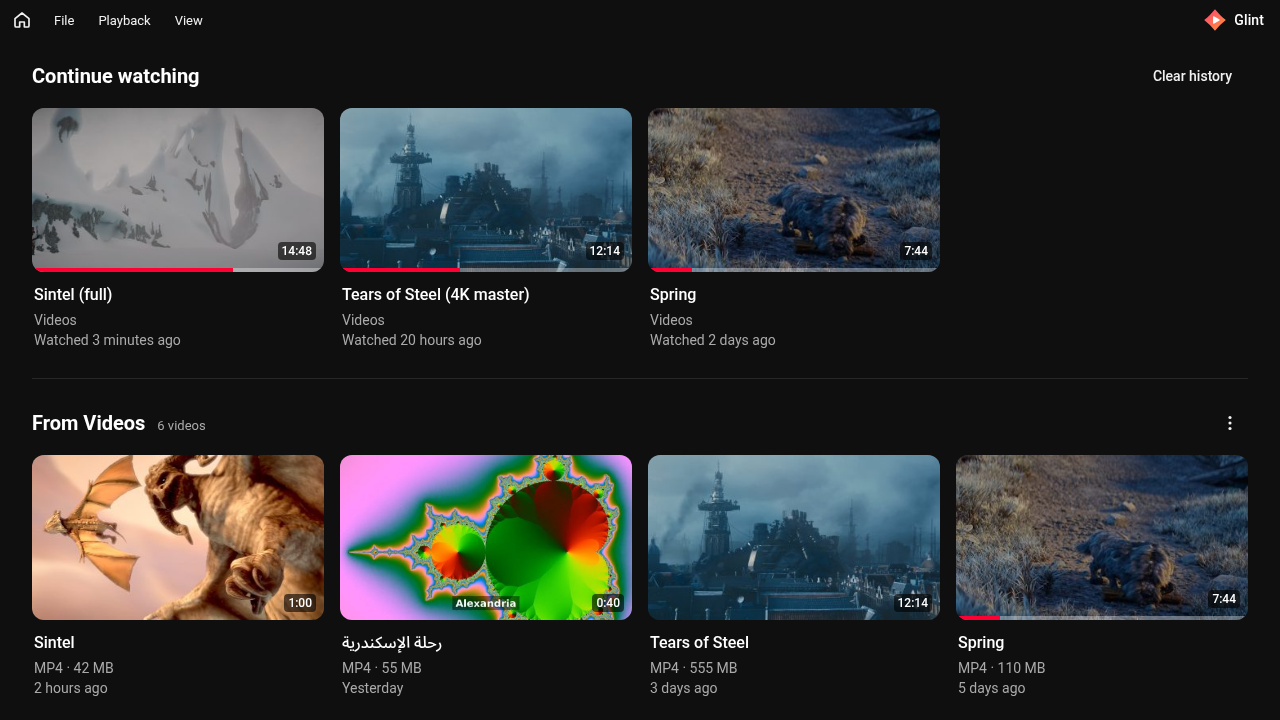
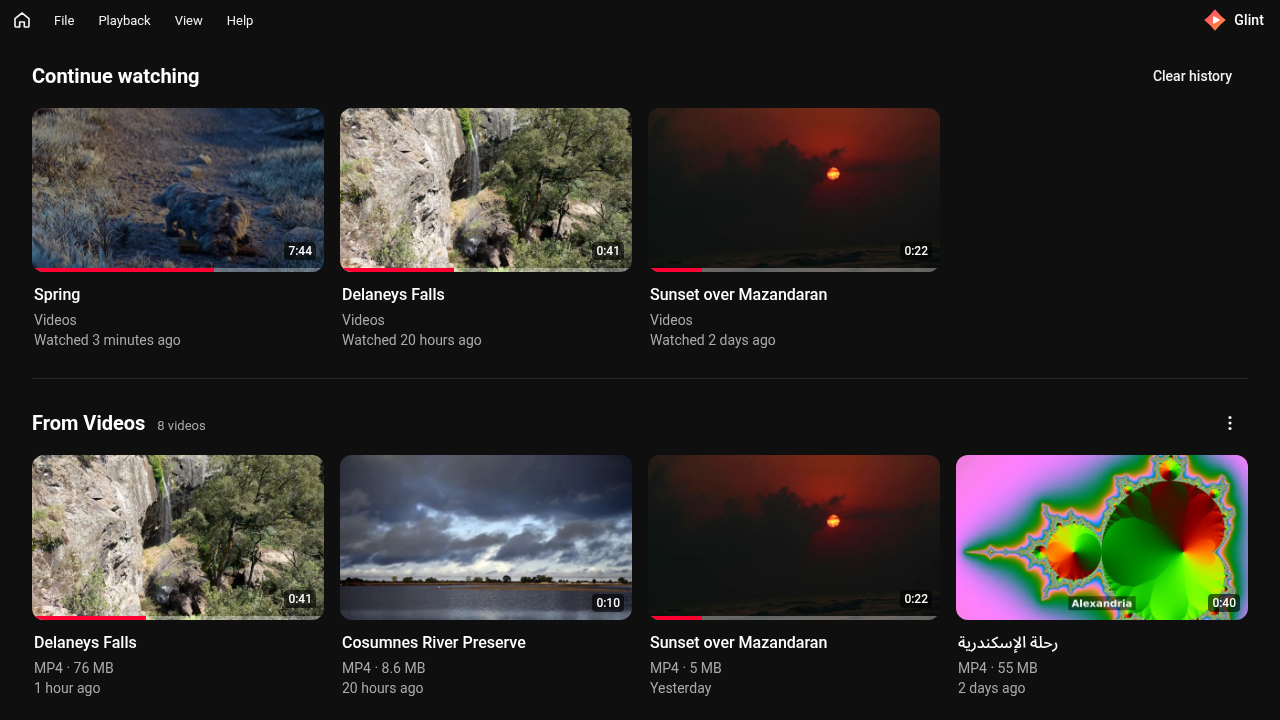
Replace movie footage in README media with public-domain and CC0 clips
New promo GIF, home screenshot and social preview use nature clips from
Wikimedia Commons (NPS, BLM, CC0) and the Blender Spring animation, with
credits updated in the README and THIRD_PARTY_NOTICES. Also correct the
installer size to about 5.6 MB.

diff --git a/README.md b/README.md
@@ -12,11 +12,11 @@
 [![License: MIT](https://img.shields.io/badge/license-MIT-blue)](LICENSE)
 ![Platform: Windows 10 | 11](https://img.shields.io/badge/platform-Windows%2010%20%7C%2011-0078d4)
 
-<img src="docs/glint-promo.gif" width="800" alt="Glint playing a video: play and pause with K, skip with J and L, jump with the number keys, and change the volume" />
+<img src="docs/glint-promo.gif" width="720" alt="Glint playing a waterfall clip with subtitles and chapters: play and pause with K, change the volume with the arrow keys, and hold Space for 2x" />
 
 [![Download for Windows](https://img.shields.io/badge/Download%20for%20Windows-ff4d6d?style=for-the-badge&logo=windows&logoColor=white)](https://github.com/Adham-ELtawil/glint/releases/latest)
 
-Free and open source · Windows 10 and 11 · about 2.5 MB
+Free and open source · Windows 10 and 11 · about 5.6 MB
 
 </div>
 
@@ -55,7 +55,7 @@ Open a video and the same control bar, shortcuts, and animations you already kno
 
 ## Download and install
 
-1. Go to the [latest release](https://github.com/Adham-ELtawil/glint/releases/latest) and download `Glint_<version>_x64-setup.exe` (about 3.3 MB). Glint runs on 64-bit Windows 10 and 11.
+1. Go to the [latest release](https://github.com/Adham-ELtawil/glint/releases/latest) and download `Glint_<version>_x64-setup.exe` (about 5.6 MB). Glint runs on 64-bit Windows 10 and 11.
 2. Run it. Glint installs for your user account only, so it doesn't ask for administrator rights.
 3. Open Glint from the Start menu, or right-click a video and choose **Open with → Glint**.
 
@@ -380,6 +380,6 @@ Bug reports, ideas, and pull requests are welcome. Open an [issue](https://githu
 
 [MIT](LICENSE) © 2026 Adham Yasser. Glint also includes open-source software and the Roboto font under their own licenses; see [THIRD_PARTY_NOTICES.md](THIRD_PARTY_NOTICES.md).
 
-The movie footage in the screenshots and the animation is from the Blender open movies [_Tears of Steel_](https://mango.blender.org) and [_Sintel_](https://durian.blender.org) (© Blender Foundation, CC BY 3.0) and [_Spring_](https://studio.blender.org/films/spring/) (© Blender Foundation, CC BY 4.0).
+The footage in the screenshots and the animation comes from Wikimedia Commons: [_Delaneys Falls_](https://commons.wikimedia.org/wiki/File:Delaneys_Falls.webm) by Psypherium (CC0), [_Mazandaran Province 07_](https://commons.wikimedia.org/wiki/File:Mazandaran_Province_07.ogv) by Mostafameraji (CC0), [_Cosumnes River Preserve_](<https://commons.wikimedia.org/wiki/File:Cosumnes_River_Preserve_(38396309891).webm>) by the Bureau of Land Management (public domain), and [_Grand Canyon National Park: Timelapse Video - Summer Clouds_](<https://commons.wikimedia.org/wiki/File:Grand_Canyon_National_Park-_Timelapse_Video_-_Summer_Clouds_(7775362134).webm>) by the National Park Service (public domain). The home screen also shows the Blender open movie [_Spring_](https://studio.blender.org/films/spring/) (© Blender Foundation, CC BY 4.0).
 
 Glint is an independent project. It is not affiliated with or endorsed by YouTube or Google.

diff --git a/THIRD_PARTY_NOTICES.md b/THIRD_PARTY_NOTICES.md
@@ -468,4 +468,4 @@ Notes on the licenses that aren't MIT or Apache-2.0:
 
 ## Glint's own assets
 
-The Glint icon and logo (`src-tauri/icons/`), the sample clip in `public/sample/`, and the images in `docs/` are part of Glint and covered by its MIT license. The movie footage shown in `docs/home.png`, `docs/glint-promo.gif`, and `docs/social-preview.png` is from the Blender open movies _Tears of Steel_ ([mango.blender.org](https://mango.blender.org)) and _Sintel_ ([durian.blender.org](https://durian.blender.org)), © Blender Foundation, [CC BY 3.0](https://creativecommons.org/licenses/by/3.0/), and _Spring_ ([studio.blender.org/films/spring](https://studio.blender.org/films/spring/)), © Blender Foundation, [CC BY 4.0](https://creativecommons.org/licenses/by/4.0/).
+The Glint icon and logo (`src-tauri/icons/`), the sample clip in `public/sample/`, and the images in `docs/` are part of Glint and covered by its MIT license. The footage shown in `docs/home.png`, `docs/glint-promo.gif`, and `docs/social-preview.png` is from Wikimedia Commons: _Delaneys Falls_ by Psypherium and _Mazandaran Province 07_ by Mostafameraji ([CC0](https://creativecommons.org/publicdomain/zero/1.0/)), _Cosumnes River Preserve_ by the U.S. Bureau of Land Management and _Grand Canyon National Park: Timelapse Video - Summer Clouds_ by the U.S. National Park Service (public domain, works of the U.S. federal government), plus the Blender open movie _Spring_ ([studio.blender.org/films/spring](https://studio.blender.org/films/spring/)), © Blender Foundation, [CC BY 4.0](https://creativecommons.org/licenses/by/4.0/).
